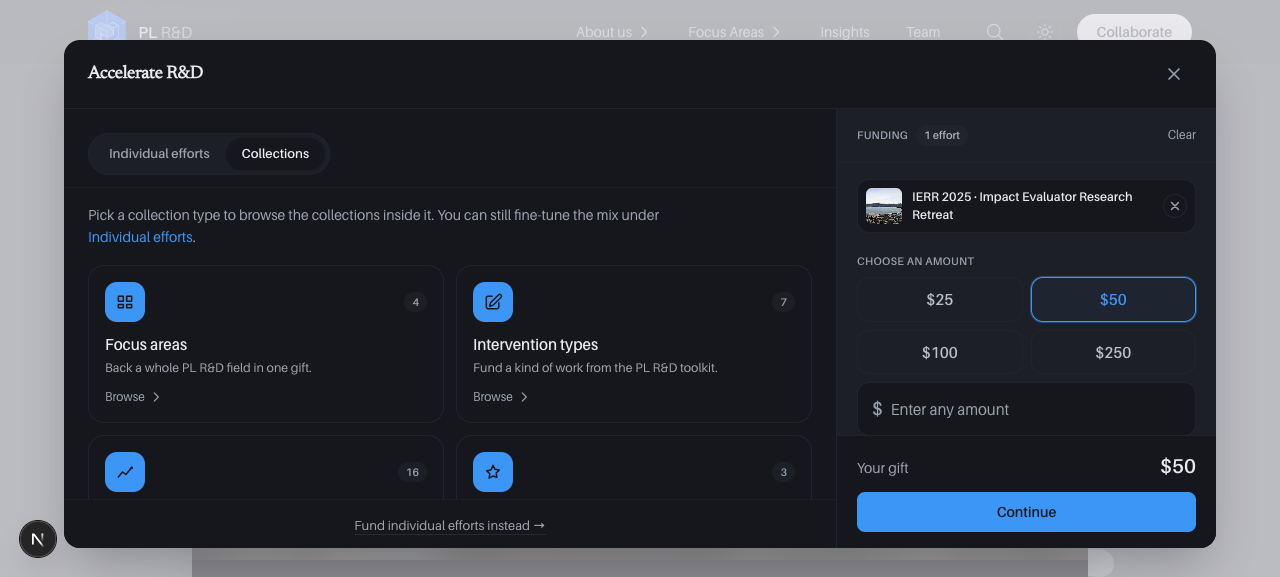
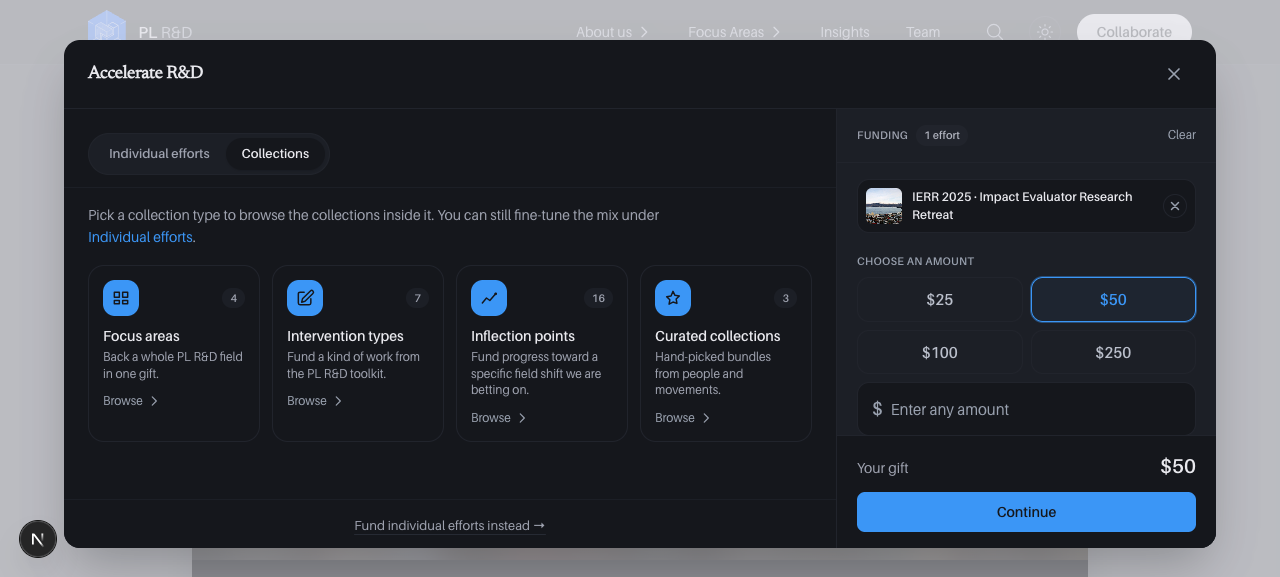
Funding collections: four type tiles per row (was two)

diff --git a/src/components/FundingFlow.tsx b/src/components/FundingFlow.tsx
@@ -585,7 +585,7 @@ export default function FundingCheckout({
                         </button>
                         .
                       </p>
-                      <div className="grid grid-cols-2 gap-3">
+                      <div className="grid grid-cols-2 gap-3 md:grid-cols-4">
                         {COLLECTION_TYPES.map((type) => (
                           <CollectionTypeTile
                             key={type.id}
@@ -1011,11 +1011,11 @@ function CollectionTypeTile({
     <button
       type="button"
       onClick={onClick}
-      className="group flex h-full flex-col rounded-2xl border border-gray-200 p-4 text-left transition-all hover:border-blue/40 hover:bg-blue/[0.02] hover:shadow-sm"
+      className="group flex h-full flex-col rounded-2xl border border-gray-200 p-3.5 text-left transition-all hover:border-blue/40 hover:bg-blue/[0.02] hover:shadow-sm"
     >
-      <div className="mb-3 flex items-center justify-between">
+      <div className="mb-2.5 flex items-center justify-between">
         <span
-          className="flex h-10 w-10 items-center justify-center rounded-xl text-white"
+          className="flex h-9 w-9 items-center justify-center rounded-xl text-white"
           style={{ background: HAND_COLOR }}
         >
           <TypeGlyph id={id} />
@@ -1024,9 +1024,9 @@ function CollectionTypeTile({
           {count}
         </span>
       </div>
-      <div className="text-[15px] font-semibold leading-snug text-black">{label}</div>
-      <p className="mt-1 text-[12.5px] leading-snug text-gray-500">{blurb}</p>
-      <span className="mt-3 inline-flex items-center gap-1 text-[12px] font-medium text-gray-400 transition-colors group-hover:text-blue">
+      <div className="text-[14px] font-semibold leading-snug text-black">{label}</div>
+      <p className="mt-1 text-[12px] leading-snug text-gray-500">{blurb}</p>
+      <span className="mt-2.5 inline-flex items-center gap-1 text-[12px] font-medium text-gray-400 transition-colors group-hover:text-blue">
         Browse
         <svg className="h-3.5 w-3.5" fill="none" stroke="currentColor" viewBox="0 0 24 24">
           <path strokeLinecap="round" strokeLinejoin="round" strokeWidth={2} d="M9 5l7 7-7 7" />
